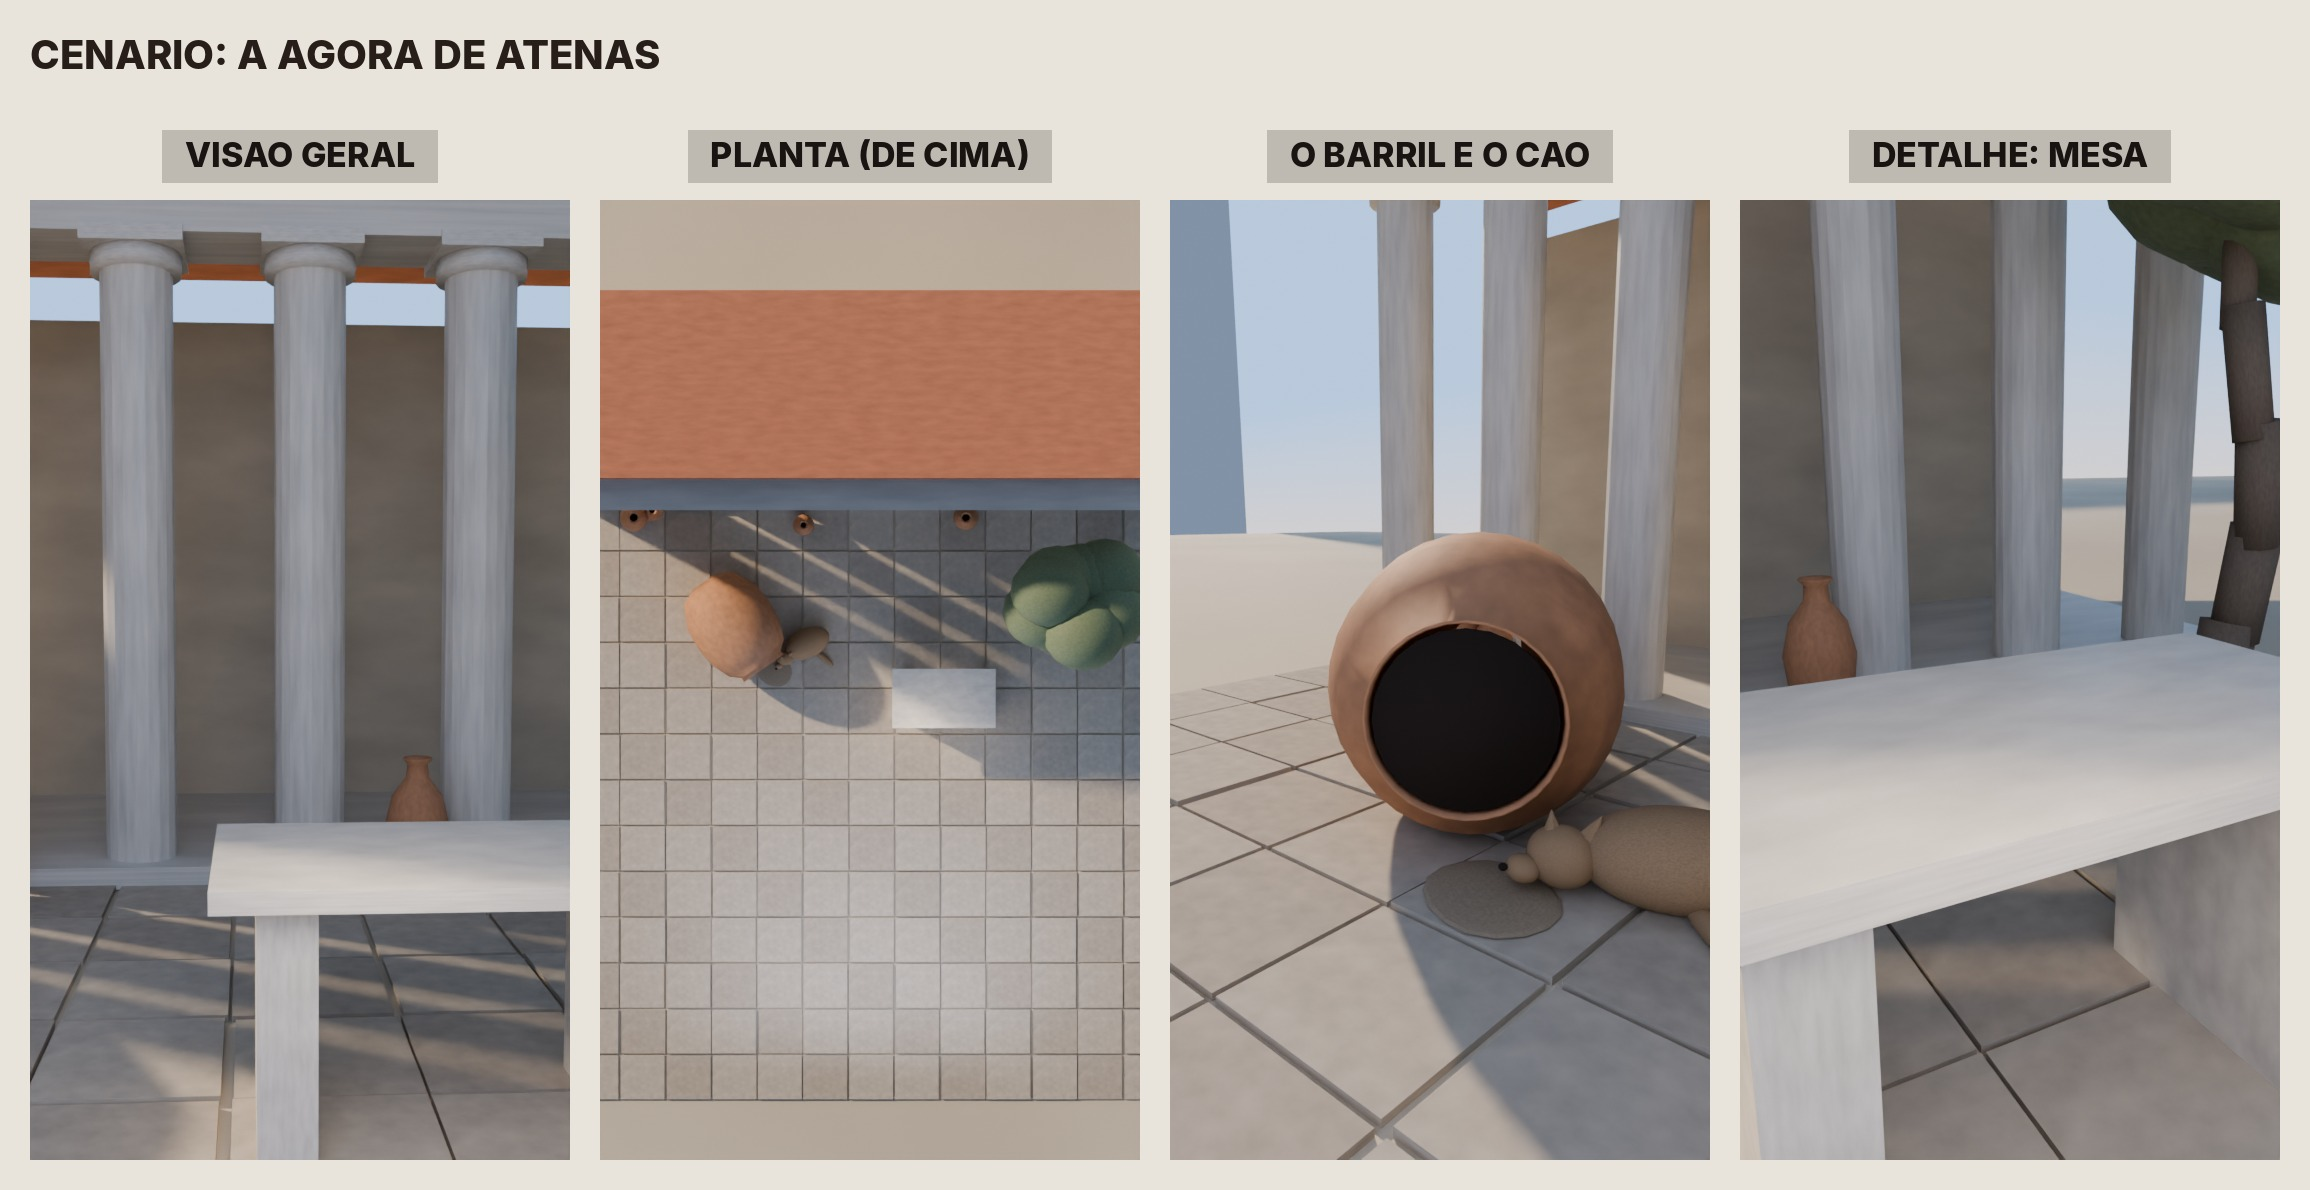
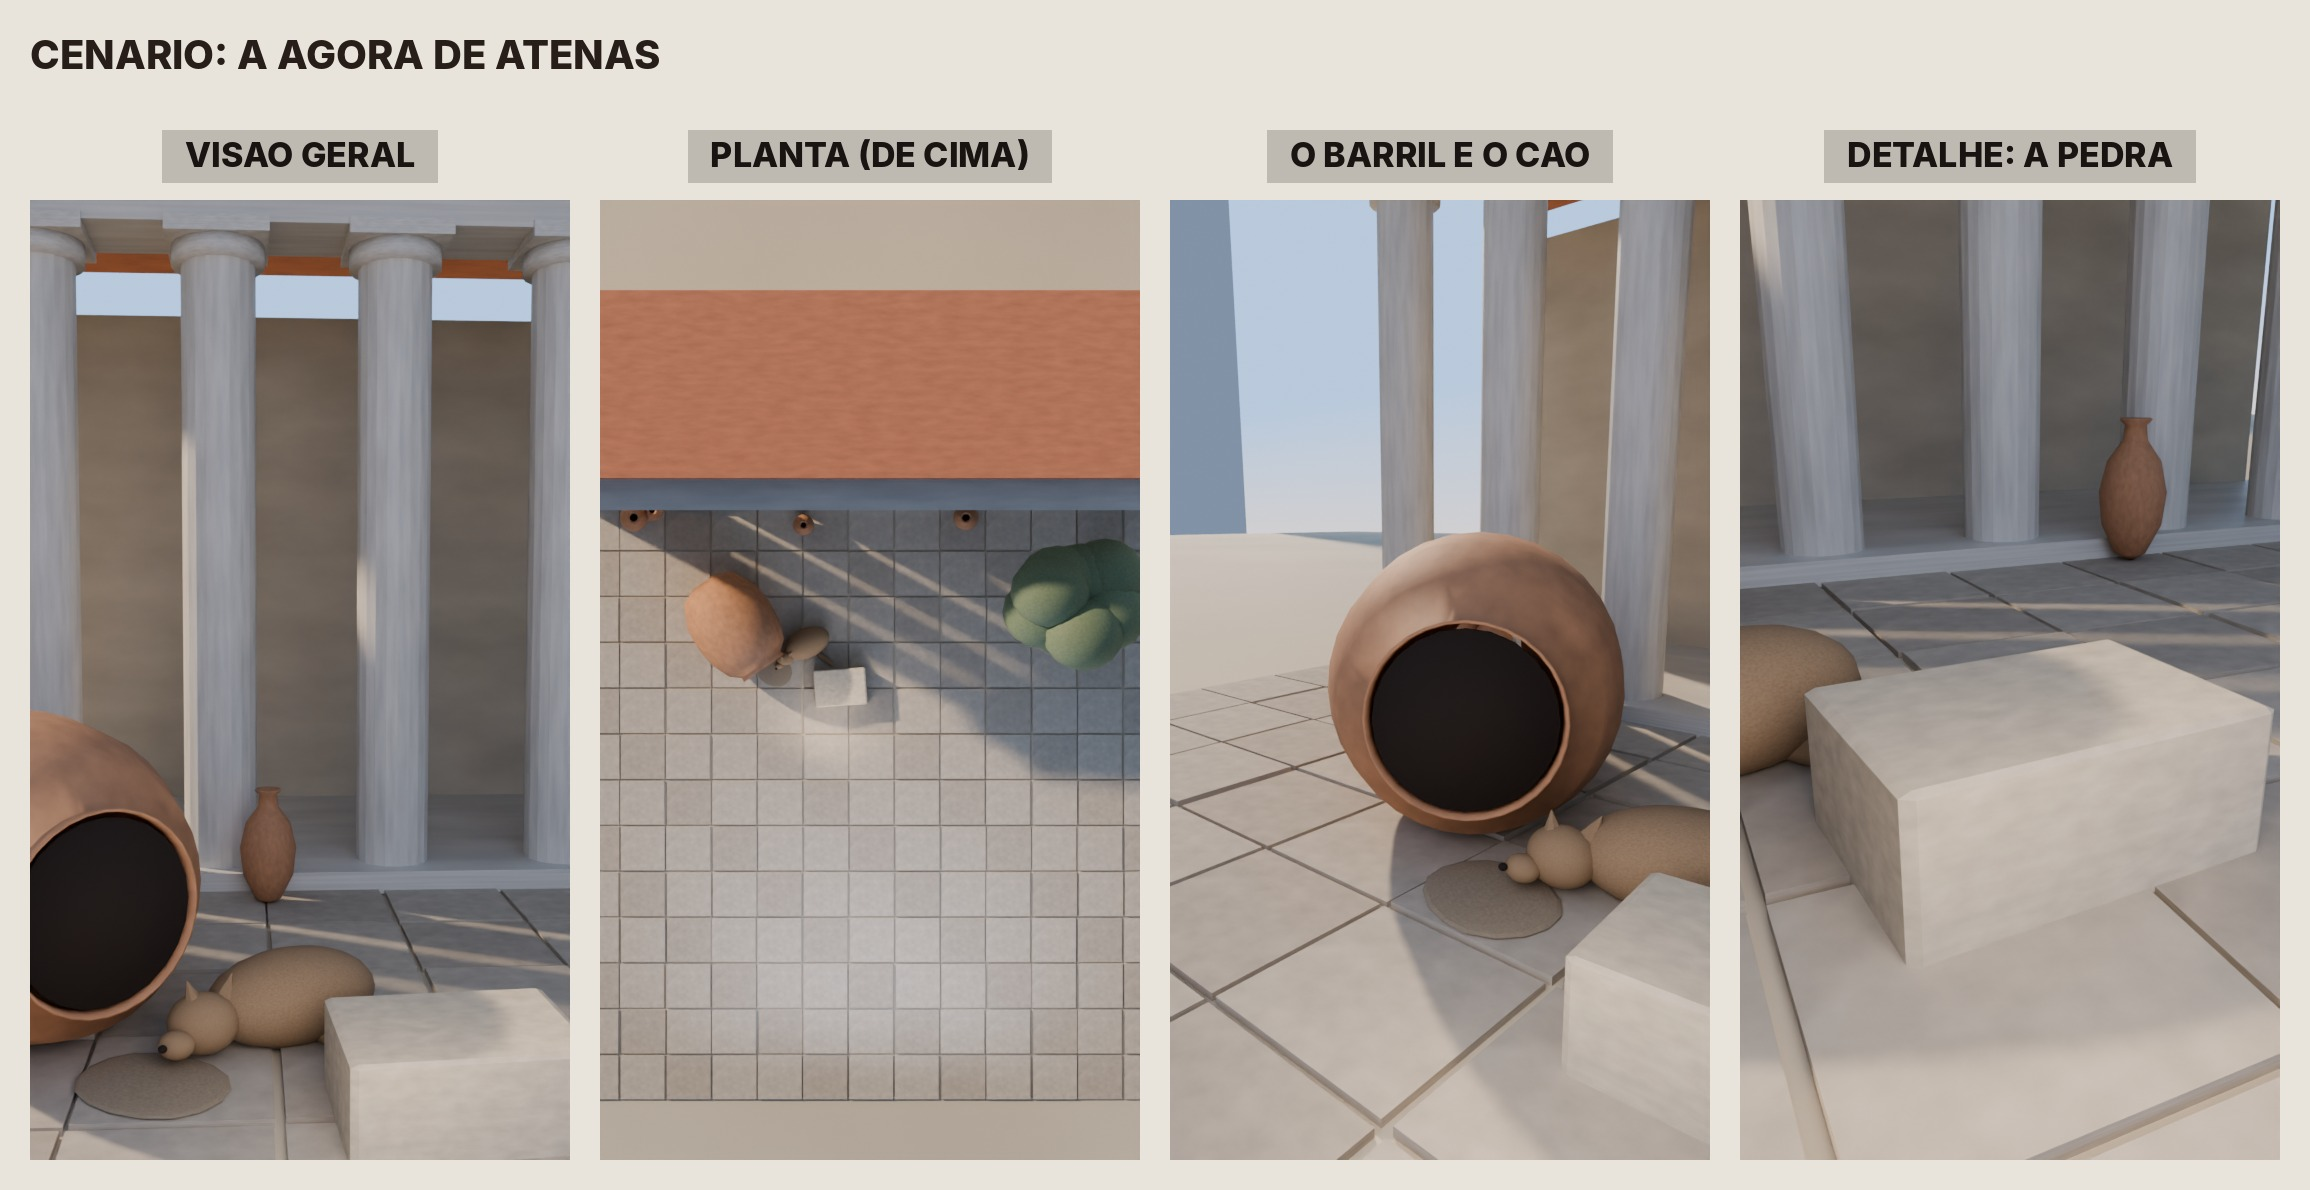
3D: jornada pode sair da mesa (deslocar); Diogenes na pedra ao lado do barril
Claude-Session: https://claude.ai/code/session_0146Xd1ZsDWpGpSHV77qDDph

diff --git a/animacao3d/historia.py b/animacao3d/historia.py
@@ -327,6 +327,22 @@ def _jornada(titulo, extra, cz, contador, roteiro, descs):
             "roteiro": roteiro, "planos": planos_jornada(cz, descs)}
 
 
+def deslocar(hist, centro):
+    """Leva a jornada para outro ponto do cenario (sem mesa): objetos, cameras e Elias andam juntos.
+    centro = (x, y, z) onde ficam os objetos; o padrao e a mesa (1.6, -0.45, 0.81)."""
+    dx, dy = centro[0] - 1.6, centro[1] + 0.45
+    mv = lambda v: (v[0] + dx, v[1] + dy, v[2])
+    for pl in hist["planos"]:
+        cam = pl["cam"]
+        for k in ("de", "ate", "alvo", "alvo_de", "alvo_ate", "centro"):
+            if k in cam:
+                cam[k] = mv(cam[k])
+    x, y = hist["inicio"]["pos"]
+    hist["inicio"] = dict(hist["inicio"], pos=(x + dx, y + dy))
+    hist["centro"] = centro
+    return hist
+
+
 _FECHO = ["Elias se vira para quem assiste; aproximacao ate o close.", "Final: Elias acena ao lado da mesa."]
 
 KINTSUGI = _jornada(
@@ -506,7 +522,7 @@ BABILONIA = _jornada(
 BABILONIA.update({"cenario": "babilonia", "clima": "locrio", "gancho": "DE ESCRAVO|A MAIS RICO|DA BABILÔNIA"})
 
 DIOGENES = _jornada(
-    "Diogenes vendo o seu feed", "criar_diogenes", 0.9,
+    "Diogenes vendo o seu feed", "criar_diogenes", 0.38,
     [],
     ["Diógenes morava num barril e andava com uma lamparina acesa em pleno dia. Imagina ele vendo o seu feed.",
      "Atenas, quatrocentos anos antes de Cristo. Ele dizia que procurava um homem de verdade. Nunca achou.",
@@ -516,9 +532,10 @@ DIOGENES = _jornada(
      "Quando Alexandre, o Grande, ofereceu dar a ele o que quisesse, Diógenes respondeu: sai da frente do meu sol.",
      "*Quem precisa de pouco é livre.* Talvez o que te falta não seja mais. Seja menos.",
      "O que Diógenes diria do seu último post? Comenta. Segue a Lamparina."],
-    ["Gancho: Elias na agora, o barril e o cao ao fundo.", "A lamparina acende em pleno dia sobre a mesa.",
+    ["Gancho: Elias na agora, ao lado do barril e do cao.", "A lamparina acende em pleno dia sobre a pedra.",
      "O celular aparece: o carro novo; a camera gira.", "O feed rola: a selfie com filtro.",
-     "O feed rola: a briga; o celular vibra.", "A tela apaga, o celular tomba; o sol entra na mesa."] + _FECHO)
+     "O feed rola: a briga; o celular vibra.", "A tela apaga, o celular tomba; o sol entra na pedra."] + _FECHO)
+deslocar(DIOGENES, (0.2, -0.3, 0.3))
 DIOGENES.update({"cenario": "atenas", "clima": "piano", "gancho": "DIÓGENES|VENDO O SEU FEED"})
 
 HISTORIAS = {"diogenes-vendo-o-seu-feed": DIOGENES, "homem-mais-rico-da-babilonia": BABILONIA, "a-ultima-carta": CARTA, "a-tempestade": TEMPESTADE, "kintsugi": KINTSUGI, "ouro-no-fogo": OURO_FOGO, "diamante": DIAMANTE,

diff --git a/animacao3d/atenas.py b/animacao3d/atenas.py
@@ -16,7 +16,7 @@ TITULO = "CENARIO: A AGORA DE ATENAS"
 VISTAS = [("VISAO GERAL", (0.3, -4.8, 2.0), (0.6, 0.6, 1.3), 24, False),
           ("PLANTA (DE CIMA)", (0.6, -0.2, 10), (0.6, -0.2, 0), 10, True),
           ("O BARRIL E O CAO", (0.6, -1.8, 1.2), (-1.5, 0.6, 0.5), 28, False),
-          ("DETALHE: MESA", (0.9, -1.6, 1.25), (1.6, -0.35, 0.85), 30, False)]
+          ("DETALHE: A PEDRA", (-0.4, -1.5, 0.8), (0.2, -0.2, 0.3), 30, False)]
 
 MESA_Z = 0.81
 
@@ -147,10 +147,9 @@ def criar(col, m, semente=21):
     anf = [(0.02, 0.0), (0.09, 0.04), (0.17, 0.2), (0.19, 0.38), (0.15, 0.55), (0.07, 0.66), (0.06, 0.74), (0.09, 0.77)]
     for x, y, s in ((-2.6, 2.0, 1.0), (-2.35, 2.1, 0.8), (1.9, 2.0, 0.9), (-0.3, 1.9, 0.75)):
         _torno("anfora", [(r * s, z * s) for r, z in anf], (x, y, 0.02), barro, col)
-    # mesa de marmore no lugar de sempre
-    _cubo("mesa_tampo", (1.6, -0.45, MESA_Z - 0.03), (1.4, 0.8, 0.06), marmore, col)
-    for dx in (-0.5, 0.5):
-        _cubo("pe_mesa", (1.6 + dx, -0.45, MESA_Z / 2 - 0.03), (0.16, 0.6, MESA_Z - 0.06), marmore, col)
+    # sem mesa: uma pedra baixa ao lado do barril, onde Diogenes sentava (os objetos ficam em cima dela)
+    pd = _cubo("pedra", (0.2, -0.3, 0.15), (0.7, 0.5, 0.3), calcario, col, (0, 0, math.radians(4)))
+    pd.modifiers.new("canto", "BEVEL").width = 0.03
     mk = _cubo("livro_aberto", (1.9, -0.5, MESA_Z), (0.01, 0.01, 0.01), m["papel"], col)
     mk.hide_render = True
     # luz: sol baixo de fim de tarde pela esquerda, ceu azul preenchendo

diff --git a/animacao3d/gerar.py b/animacao3d/gerar.py
@@ -69,6 +69,8 @@ def construir(tempos, total):
         cen.animar(col, m, p, faixas, HIST)
     historia.aplicar_acoes(p, HIST["planos"], faixas, HIST.get("inicio"))
     historia.criar_cameras(HIST["planos"], faixas, col, cena)
+    if HIST.get("centro"):
+        processo.CX, processo.CY, processo.MESA_Z = HIST["centro"]
     if HIST.get("extra"):
         getattr(processo, HIST["extra"])(col, m, faixas)
     cena.frame_start, cena.frame_end = 0, faixas[-1][1]
